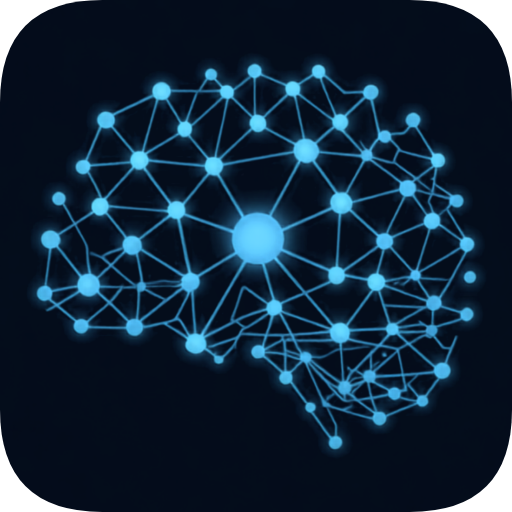
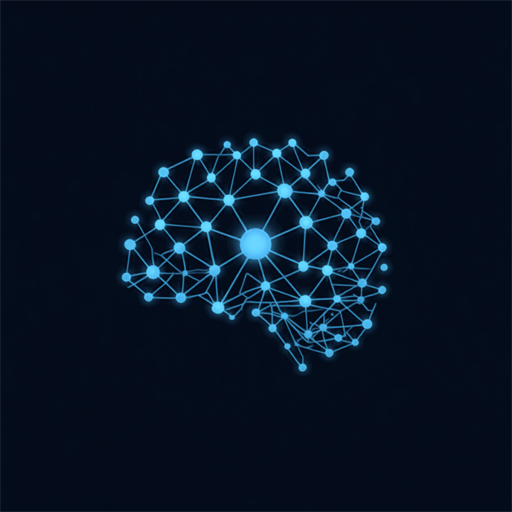
fix: o app web instalava sem icone
`icone-192.png` era o `icone-512.png` renomeado -- 512x512 num arquivo que o
manifest declarava como 192x192, byte a byte identico ao outro. O navegador
confere o tamanho declarado contra o real e descarta o icone que nao bate,
entao a instalacao caia no quadrado cinza.

Os dois agora sao gerados do original de 2000x2000, cada um no seu tamanho.

Mais dois que faltavam:

- `apple-touch-icon.png`, 180x180 e OPACO. O iOS ignora os icones do manifest
  e usa so este; e ele compoe transparencia sobre PRETO, entao a arte escura
  sumiria contra o fundo. Antes o `apple-touch-icon` apontava para o mesmo
  arquivo torto de 512.
- `icone-maskable-512.png`, com a arte em 80% centralizada sobre o fundo do
  tema. O Android recorta o icone num circulo ou squircle; sem a margem da
  zona segura, o recorte come pedaco da arte.

O icone do `.exe` foi conferido e esta certo: o `.ico` carrega as sete
resolucoes que o Windows pede, de 16x16 a 256x256.

diff --git a/web/index.html b/web/index.html
@@ -5,7 +5,11 @@
     <meta name="viewport" content="width=device-width, initial-scale=1, viewport-fit=cover" />
     <meta name="theme-color" content="#070f1c" />
     <link rel="manifest" href="/manifest.webmanifest" />
-    <link rel="apple-touch-icon" href="/icone-192.png" />
+    <!-- O iOS ignora os ícones do manifest e usa só este. Tem que ser 180x180
+         e OPACO: transparência ali é composta sobre preto, e a arte escura
+         sumiria contra ele. -->
+    <link rel="apple-touch-icon" sizes="180x180" href="/apple-touch-icon.png" />
+    <link rel="icon" type="image/png" sizes="192x192" href="/icone-192.png" />
     <title>Cortex</title>
   </head>
   <body>
